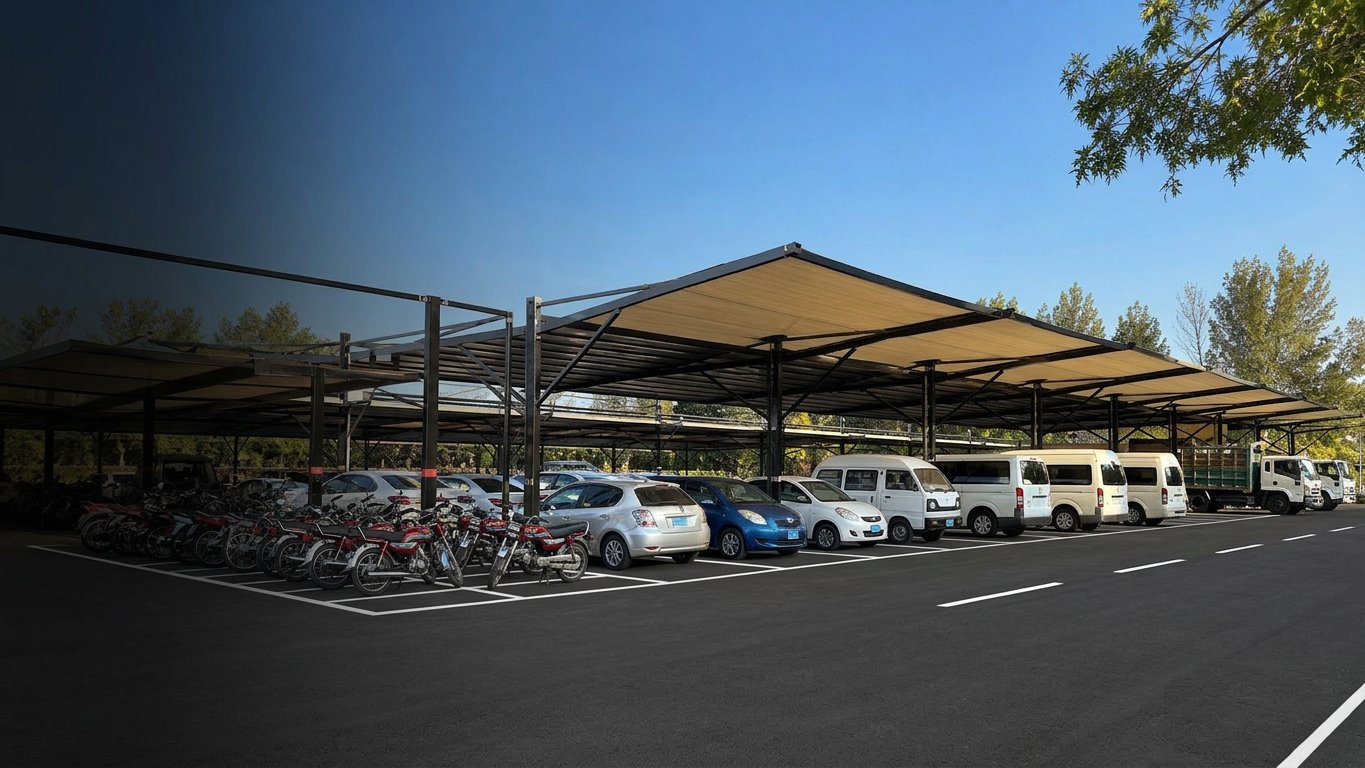
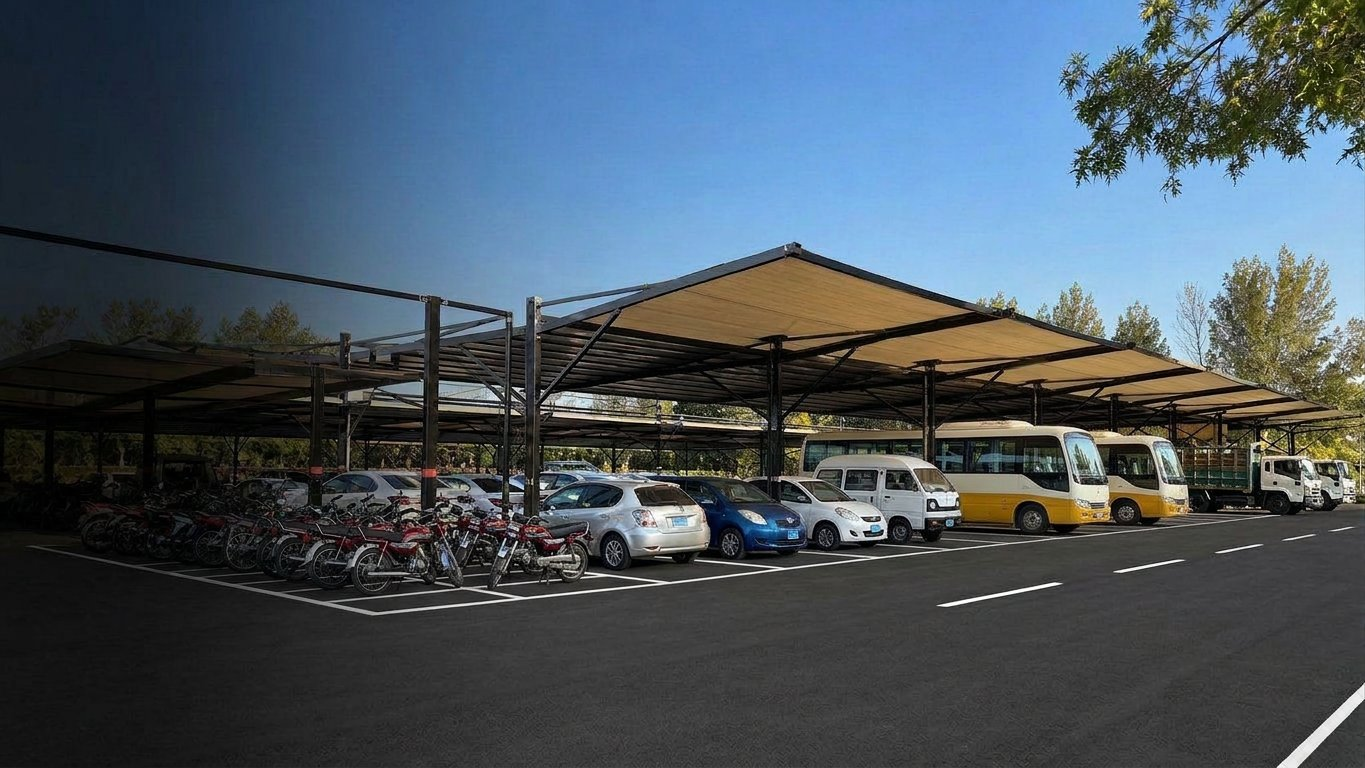
Add buses (5); capacities 40 bikes / 30 cars / 15 vans / 10 trucks / 5 buses; professional colour contrast; hero with buses

diff --git a/web/gate.html b/web/gate.html
@@ -1,15 +1,15 @@
 <!doctype html>
 <html lang="en" data-theme="light">
-<head><meta charset="utf-8"><meta name="viewport" content="width=device-width, initial-scale=1, viewport-fit=cover"><meta name="theme-color" content="#171717"><title>Gate — Salim Habib Parking</title><link rel="icon" href="img/favicon.png" type="image/png"><link rel="stylesheet" href="style.css"></head>
+<head><meta charset="utf-8"><meta name="viewport" content="width=device-width, initial-scale=1, viewport-fit=cover"><meta name="theme-color" content="#171717"><title>Gate — Salim Habib Parking</title><link rel="icon" href="img/favicon.png" type="image/png"><link rel="stylesheet" href="style.css?v=3"></head>
 <body class="staff-page">
   <header class="topbar"><div class="shell nav-shell"><a class="brand" href="/"><img class="brand-logo" src="img/sh-logo.png" alt="Salim Habib Parking logo" width="48" height="48"><span><b>Salim Habib <span class="brand-accent">Parking</span></b><small>GATE</small></span></a><nav class="nav"><a href="/">Home</a><a href="/admin">Admin</a></nav><div class="nav-actions"><span id="clock" class="nav-clock"></span><button id="themeToggle" class="theme-toggle" type="button" aria-label="Switch light / dark theme">◐</button><button id="logoutBtn" class="btn btn-plain hidden" type="button">Sign out</button></div></div></header>
 
   <section id="gateLogin" class="auth-layout shell"><div class="auth-intro"><h1>Gate<br><em>desk</em></h1></div><div class="auth-card"><div class="panel-icon">G</div><h2>Gate login</h2><form id="gateLoginForm"><label for="gateUser">Username</label><input id="gateUser" required autocomplete="username" maxlength="40" placeholder="Username"><label for="gatePass">Password</label><input id="gatePass" required type="password" autocomplete="current-password" maxlength="80" placeholder="Password"><button class="btn btn-red btn-wide" type="submit">Login</button></form></div></section>
 
   <main id="gateDash" class="shell staff-content hidden"><div class="staff-heading"><div><h1>Gate desk<span class="red-period">.</span></h1></div><span class="operator-label" id="operatorLabel">GATE OPERATOR</span></div>
-    <div class="kpi-row"><div class="mini-kpi"><span>AVAILABLE</span><strong id="gateFree">—</strong></div><div class="mini-kpi"><span>RESERVED</span><strong id="gateReserved">—</strong></div><div class="mini-kpi"><span>ON SITE</span><strong id="gateOccupied">—</strong></div><div class="mini-kpi"><span>TOTAL BAYS</span><strong>90</strong></div></div>
+    <div class="kpi-row"><div class="mini-kpi"><span>AVAILABLE</span><strong id="gateFree">—</strong></div><div class="mini-kpi"><span>RESERVED</span><strong id="gateReserved">—</strong></div><div class="mini-kpi"><span>ON SITE</span><strong id="gateOccupied">—</strong></div><div class="mini-kpi"><span>TOTAL BAYS</span><strong>100</strong></div></div>
     <div class="tabs big-tabs" role="tablist" aria-label="Gate actions"><button class="tab active" type="button" data-gate-tab="walkin" role="tab" aria-selected="true">Walk-in entry</button><button class="tab" type="button" data-gate-tab="arrival" role="tab" aria-selected="false">Online arrival</button><button class="tab" type="button" data-gate-tab="exit" role="tab" aria-selected="false">Exit & payment</button></div>
-    <section id="tab-walkin" class="gate-workspace"><div class="gate-form"><div class="panel"><div class="panel-head"><div class="panel-icon">01</div><div><h2>Walk-in entry</h2></div></div><form id="walkinForm" autocomplete="off"><label for="gType">Vehicle</label><select id="gType" required><option value="CAR">Car</option><option value="MOTORCYCLE">Bike</option><option value="VAN">Van</option><option value="TRUCK">Truck</option></select><div class="form-row"><div><label for="gPlate">License plate</label><input id="gPlate" required maxlength="15" pattern="[A-Za-z0-9\- ]{2,15}" autocapitalize="characters" placeholder="LEA-4521"></div><div><label for="gOwner">Driver name</label><input id="gOwner" maxlength="60" placeholder="Optional"></div></div><button class="btn btn-red btn-wide" type="submit">Issue ticket</button></form></div></div><aside class="gate-aside"><div id="gateZoneCounts" class="zone-summary"></div></aside></section>
+    <section id="tab-walkin" class="gate-workspace"><div class="gate-form"><div class="panel"><div class="panel-head"><div class="panel-icon">01</div><div><h2>Walk-in entry</h2></div></div><form id="walkinForm" autocomplete="off"><label for="gType">Vehicle</label><select id="gType" required><option value="CAR">Car</option><option value="MOTORCYCLE">Bike</option><option value="VAN">Van</option><option value="TRUCK">Truck</option><option value="BUS">Bus</option></select><div class="form-row"><div><label for="gPlate">License plate</label><input id="gPlate" required maxlength="15" pattern="[A-Za-z0-9\- ]{2,15}" autocapitalize="characters" placeholder="LEA-4521"></div><div><label for="gOwner">Driver name</label><input id="gOwner" maxlength="60" placeholder="Optional"></div></div><button class="btn btn-red btn-wide" type="submit">Issue ticket</button></form></div></div><aside class="gate-aside"><div id="gateZoneCounts" class="zone-summary"></div></aside></section>
     <section id="tab-arrival" class="gate-workspace hidden"><div class="gate-form"><div class="panel"><div class="panel-head"><div class="panel-icon">02</div><div><h2>Online arrival</h2></div></div><form id="checkinForm" autocomplete="off"><div class="form-row"><div><label for="cId">Booking code</label><input id="cId" required maxlength="16" autocapitalize="characters" placeholder="Booking code"></div><div><label for="cPlate">License plate</label><input id="cPlate" required maxlength="15" autocapitalize="characters" placeholder="LEA-4521"></div></div><button class="btn btn-red btn-wide" type="submit">Check in</button></form></div></div></section>
     <section id="tab-exit" class="gate-workspace hidden"><div class="gate-form"><div class="panel"><div class="panel-head"><div class="panel-icon">03</div><div><h2>Exit & payment</h2></div></div><form id="gateLookupForm" class="lookup-form"><label for="gSearch">Plate or booking code</label><div class="inline-search"><input id="gSearch" required maxlength="16" autocapitalize="characters" placeholder="LEA-4521"><button type="submit" class="btn btn-dark">Search</button></div></form><div id="gateTicket" class="hidden" aria-live="polite"><div id="gateTicketDetails"></div><div id="gatePending" class="hidden warning-box"></div><form id="cashForm" class="cash-form"><h3>Cash</h3><label for="gReceived">Amount received (PKR)</label><input id="gReceived" type="number" step="0.01" min="0" required placeholder="0.00"><div class="cash-change">Change <b id="gChange">PKR 0</b></div><button type="submit" class="btn btn-red btn-wide">Record cash & exit</button></form><div id="gateDigital" class="digital-box"><h3>Online transfer</h3><div id="gateMethods" class="payment-picker"></div><div id="gateDestination" class="destination-box hidden"></div><form id="gateTransferForm" class="hidden"><div class="form-row"><div><label for="gateRef">Transfer reference</label><input id="gateRef" maxlength="40" required placeholder="Reference"></div><div><label for="gateLastFour">Sender last 4 digits</label><input id="gateLastFour" inputmode="numeric" pattern="[0-9]{4}" maxlength="4" placeholder="1234"></div></div><button class="btn btn-dark btn-wide" type="submit">Send for verification</button></form></div></div></div></div></section>
 
@@ -17,5 +17,5 @@
   </main>
   <footer class="footer"><div class="dev-credit">Developed by <span class="spidy">Spidy</span> 🕷</div></footer>
   <div class="modal" id="receiptModal" hidden role="dialog" aria-modal="true" aria-labelledby="receiptTitle"><div class="modal-box"><div class="modal-header"><div><span class="eyebrow">SALIM HABIB PARKING</span><h3 id="receiptTitle">Parking pass</h3></div><button class="icon-button" id="receiptClose" type="button" aria-label="Close">×</button></div><div id="receiptContent" class="receipt"></div><div class="modal-actions"><button id="receiptPng" class="btn btn-red" type="button">↓ Save image</button><button id="receiptPrint" class="btn btn-dark" type="button">Print</button><button id="receiptJson" class="btn btn-plain" type="button">↓ Ticket file</button><button id="receiptHtml" class="btn btn-plain" type="button">↓ HTML</button><button id="receiptShare" class="btn btn-plain" type="button">Share</button></div></div></div><div class="toast" id="toast" role="status" aria-live="polite"></div>
-  <script src="common.js"></script><script src="gate.js"></script>
+  <script src="common.js?v=3"></script><script src="gate.js?v=3"></script>
 </body></html>

diff --git a/web/index.html b/web/index.html
@@ -7,7 +7,7 @@
   <meta name="description" content="Salim Habib Parking — online parking booking.">
   <title>Salim Habib Parking</title>
   <link rel="icon" href="img/favicon.png" type="image/png">
-  <link rel="stylesheet" href="style.css">
+  <link rel="stylesheet" href="style.css?v=3">
 </head>
 <body>
   <header class="topbar"><div class="shell nav-shell">
@@ -17,7 +17,7 @@
   </div></header>
 
   <main>
-    <section class="hero" id="top"><img class="hero-photo" src="img/hero-parking.jpg" alt="Shaded parking lot with bikes, cars, vans and trucks" id="heroImg"><div class="hero-overlay"></div>
+    <section class="hero" id="top"><img class="hero-photo" src="img/hero-parking.jpg?v=3" alt="Shaded parking lot with bikes, cars, vans, trucks and buses" id="heroImg"><div class="hero-overlay"></div>
       <div class="shell hero-inner"><div class="hero-content">
         <h1>Salim Habib<br><em>Parking</em></h1>
         <div class="hero-actions"><a href="#booking" class="btn btn-red btn-lg">Book your spot</a><a href="#map" class="btn btn-outline-white btn-lg">Live spots</a></div>
@@ -25,13 +25,13 @@
     </section>
 
     <div class="shell main-content">
-      <section class="metrics" aria-label="Live parking availability"><div class="metric"><span>CAPACITY</span><strong id="sTotal">90</strong></div><div class="metric"><span>AVAILABLE</span><strong id="sFree">—</strong></div><div class="metric"><span>RESERVED</span><strong id="sReserved">—</strong></div><div class="metric"><span>ON SITE</span><strong id="sOccupied">—</strong></div></section>
+      <section class="metrics" aria-label="Live parking availability"><div class="metric"><span>CAPACITY</span><strong id="sTotal">100</strong></div><div class="metric"><span>AVAILABLE</span><strong id="sFree">—</strong></div><div class="metric"><span>RESERVED</span><strong id="sReserved">—</strong></div><div class="metric"><span>ON SITE</span><strong id="sOccupied">—</strong></div></section>
 
       <section class="section" id="zones"><div class="section-heading"><div><h2>Parking zones</h2></div></div><div class="zone-cards" id="zoneCards" aria-live="polite"></div></section>
 
       <section class="section booking-section" id="booking"><div class="section-heading"><div><h2>Book a spot</h2></div></div>
         <div class="booking-layout"><div class="panel form-panel"><div class="panel-head"><div class="panel-icon">01</div><div><h3>Reserve a bay</h3></div></div>
-          <form id="bookingForm" autocomplete="off"><label for="bType">Vehicle category</label><select id="bType" required><option value="CAR">Car</option><option value="MOTORCYCLE">Bike</option><option value="VAN">Van</option><option value="TRUCK">Truck</option></select>
+          <form id="bookingForm" autocomplete="off"><label for="bType">Vehicle category</label><select id="bType" required><option value="CAR">Car</option><option value="MOTORCYCLE">Bike</option><option value="VAN">Van</option><option value="TRUCK">Truck</option><option value="BUS">Bus</option></select>
             <div class="form-row"><div><label for="bPlate">License plate <span class="required">*</span></label><input id="bPlate" required maxlength="15" pattern="[A-Za-z0-9\- ]{2,15}" placeholder="e.g. LEA-4521" autocapitalize="characters"></div><div><label for="bOwner">Your name <span class="required">*</span></label><input id="bOwner" required maxlength="60" placeholder="Name"></div></div>
             <button class="btn btn-red btn-wide" type="submit" id="bookBtn">Reserve a spot</button>
           </form></div>
@@ -55,6 +55,6 @@
 
   <div class="modal" id="receiptModal" hidden role="dialog" aria-modal="true" aria-labelledby="receiptTitle"><div class="modal-box"><div class="modal-header"><div><span class="eyebrow">SALIM HABIB PARKING</span><h3 id="receiptTitle">Your parking pass</h3></div><button class="icon-button" id="receiptClose" type="button" aria-label="Close receipt">×</button></div><div id="receiptContent" class="receipt"></div><div class="modal-actions"><button id="receiptPng" type="button" class="btn btn-red">↓ Save image</button><button id="receiptPrint" type="button" class="btn btn-dark">Print</button><button id="receiptJson" type="button" class="btn btn-plain">↓ Ticket file</button><button id="receiptHtml" type="button" class="btn btn-plain">↓ HTML</button><button id="receiptShare" type="button" class="btn btn-plain">Share</button></div></div></div>
   <div class="toast" id="toast" role="status" aria-live="polite"></div>
-  <script src="common.js"></script><script src="app.js"></script>
+  <script src="common.js?v=3"></script><script src="app.js?v=3"></script>
 </body>
 </html>

diff --git a/web/style.css b/web/style.css
@@ -51,3 +51,48 @@
 .map-sections .map-zone .spot-grid{background:#2e3135;padding:8px;border-radius:8px}
 @media (max-width:560px){.spot-grid{grid-template-columns:repeat(auto-fill,minmax(38px,1fr));gap:4px}}
 .legend-dot.free{background:#3a3d42;box-shadow:inset 0 0 0 2px #f3f3f3,0 0 0 1px #999}
+
+/* ===== Professional palette & contrast (v3) ===== */
+:root{--bg:#f3f4f6;--surface:#ffffff;--surface-2:#eef0f3;--ink:#0f1115;--muted:#4a5260;--line:#d9dde3;--red:#c8102e;--red-deep:#9e0b23;--red-wash:#fbe9ec;--black:#0f1115;--shadow:0 1px 2px rgba(15,17,21,.06),0 10px 28px rgba(15,17,21,.07)}
+[data-theme="dark"]{--bg:#0c0e12;--surface:#151920;--surface-2:#1e232c;--ink:#f2f4f7;--muted:#c3c9d2;--line:#2c323c;--red:#ef3b57;--red-deep:#c8102e;--red-wash:#3a1a22;--black:#0c0e12;--shadow:0 1px 2px rgba(0,0,0,.4),0 12px 30px rgba(0,0,0,.35)}
+body{color:var(--ink);background:var(--bg)}
+.topbar{box-shadow:0 1px 0 var(--line)}
+.nav a{color:#374151}.nav a:hover{color:var(--red)}
+[data-theme="dark"] .nav a{color:#d1d5db}
+.btn-red{background:var(--red-deep);background:#c8102e;box-shadow:0 6px 16px rgba(200,16,46,.22)}
+.btn-red:hover:not(:disabled){background:#9e0b23}
+.btn-dark{background:#0f1115}.btn-dark:hover:not(:disabled){background:#262b33}
+[data-theme="dark"] .btn-dark{background:#f2f4f7;color:#0f1115}[data-theme="dark"] .btn-dark:hover:not(:disabled){background:#d7dbe1}
+.hero-overlay{background:linear-gradient(90deg,rgba(8,10,14,.88) 0%,rgba(8,10,14,.72) 32%,rgba(8,10,14,.28) 60%,rgba(8,10,14,0) 100%),linear-gradient(0deg,rgba(0,0,0,.35),transparent 40%)}
+.hero h1 em{color:#ff3d5a}
+.metric span,.mini-kpi span{color:#9e0b23;letter-spacing:.14em}
+[data-theme="dark"] .metric span,[data-theme="dark"] .mini-kpi span{color:#ff8295}
+.metric strong{color:var(--ink)}
+.section-heading h2{color:var(--ink)}
+.panel,.zone-card,.map-zone,.metrics{border-color:var(--line);box-shadow:var(--shadow)}
+input,select,textarea{border-color:#c9ced6;background:var(--surface)}
+[data-theme="dark"] input,[data-theme="dark"] select,[data-theme="dark"] textarea{border-color:#3a414c;background:#10141a}
+input::placeholder,textarea::placeholder{color:#7a828f}
+label{color:var(--ink)}
+.zone-cards{grid-template-columns:repeat(5,1fr);gap:14px}
+.zone-card{min-height:220px;padding:20px}
+.zone-card:first-child{background:#0f1115;border-color:#0f1115}
+.zone-card h3{color:inherit}
+.zone-number span,.zone-foot span{color:var(--muted)}
+.zone-card:first-child .zone-number span,.zone-card:first-child .zone-foot span{color:#c3c9d2}
+.process-panel,.verify-strip,.footer{background:#0f1115}
+.rates-panel{background:linear-gradient(160deg,#b10e29,#7e0a1d)}
+.legend{color:#374151}[data-theme="dark"] .legend{color:#d1d5db}
+.map-sections .map-zone:first-child{grid-column:1/-1}
+.map-zone header small{color:#374151}[data-theme="dark"] .map-zone header small{color:#c3c9d2}
+.map-sections .map-zone .spot-grid{background:#262a31}
+.spot-grid .spot.free,.spot-grid .spot.reserved,.spot-grid .spot.occupied,.spot-grid .spot{background:#343942}
+.spot .bay-id{color:#f2f4f7;opacity:.9}
+.status-badge{font-weight:800}
+.data-table th{color:#374151}[data-theme="dark"] .data-table th{color:#c3c9d2}
+.footer-inner>small,.dev-credit{color:#d1d5db}
+.dev-credit .spidy{color:#ff2a3d}
+@media (max-width:1100px){.zone-cards{grid-template-columns:repeat(3,1fr)}}
+@media (max-width:720px){.zone-cards{grid-template-columns:repeat(2,1fr)}}
+@media (max-width:460px){.zone-cards{grid-template-columns:1fr}}
+.zone-foot{gap:8px;flex-wrap:nowrap}.zone-foot span{white-space:nowrap;font-size:.72rem}.zone-foot a{white-space:nowrap}

diff --git a/web/admin.html b/web/admin.html
@@ -1,6 +1,6 @@
 <!doctype html>
 <html lang="en" data-theme="light">
-<head><meta charset="utf-8"><meta name="viewport" content="width=device-width, initial-scale=1, viewport-fit=cover"><meta name="theme-color" content="#171717"><title>Admin — Salim Habib Parking</title><link rel="icon" href="img/favicon.png" type="image/png"><link rel="stylesheet" href="style.css"></head>
+<head><meta charset="utf-8"><meta name="viewport" content="width=device-width, initial-scale=1, viewport-fit=cover"><meta name="theme-color" content="#171717"><title>Admin — Salim Habib Parking</title><link rel="icon" href="img/favicon.png" type="image/png"><link rel="stylesheet" href="style.css?v=3"></head>
 <body class="staff-page admin-page">
     <header class="topbar"><div class="shell nav-shell"><a class="brand" href="/"><img class="brand-logo" src="img/sh-logo.png" alt="Salim Habib Parking logo" width="48" height="48"><span><b>Salim Habib <span class="brand-accent">Parking</span></b><small>ADMIN</small></span></a><nav class="nav"><a href="/">Home</a><a href="/gate">Gate</a></nav><div class="nav-actions"><span id="clock" class="nav-clock"></span><button id="themeToggle" class="theme-toggle" type="button" aria-label="Switch light / dark theme">◐</button><button id="logoutBtn" class="btn btn-plain hidden" type="button">Sign out</button></div></div></header>
 
@@ -27,5 +27,5 @@
   <div class="modal" id="detailsModal" hidden role="dialog" aria-modal="true" aria-labelledby="detailsTitle"><div class="modal-box"><div class="modal-header"><div><h3 id="detailsTitle">Ticket details</h3></div><button class="icon-button" id="detailsClose" type="button" aria-label="Close details">×</button></div><div id="detailsContent" class="receipt"></div></div></div>
 
   <div class="modal" id="receiptModal" hidden role="dialog" aria-modal="true" aria-labelledby="receiptTitle"><div class="modal-box"><div class="modal-header"><div><span class="eyebrow">SALIM HABIB PARKING</span><h3 id="receiptTitle">Receipt</h3></div><button class="icon-button" id="receiptClose" type="button" aria-label="Close">×</button></div><div id="receiptContent" class="receipt"></div><div class="modal-actions"><button id="receiptPng" class="btn btn-red" type="button">↓ Save image</button><button id="receiptPrint" class="btn btn-dark" type="button">Print</button><button id="receiptJson" class="btn btn-plain" type="button">↓ Ticket file</button><button id="receiptHtml" class="btn btn-plain" type="button">↓ HTML</button><button id="receiptShare" class="btn btn-plain" type="button">Share</button></div></div></div><div class="toast" id="toast" role="status" aria-live="polite"></div>
-  <script src="common.js"></script><script src="admin.js"></script>
+  <script src="common.js?v=3"></script><script src="admin.js?v=3"></script>
 </body></html>

diff --git a/web/common.js b/web/common.js
@@ -6,7 +6,7 @@ window.Orbit = (() => {
   const money = value => 'PKR ' + Number(value || 0).toLocaleString('en-PK', { maximumFractionDigits: 2 });
   const fmt = iso => iso && !Number.isNaN(Date.parse(iso)) ? new Date(iso).toLocaleString('en-PK', { dateStyle: 'medium', timeStyle: 'short' }) : '—';
   const duration = iso => { if (!iso) return '—'; const mins = Math.max(0, Math.floor((Date.now() - Date.parse(iso)) / 60000)); return mins < 60 ? mins + 'm' : `${Math.floor(mins / 60)}h ${mins % 60}m`; };
-  const labels = { CAR: 'Cars', MOTORCYCLE: 'Bikes', VAN: 'Vans', TRUCK: 'Trucks' };
+  const labels = { CAR: 'Cars', MOTORCYCLE: 'Bikes', VAN: 'Vans', TRUCK: 'Trucks', BUS: 'Buses' };
   const zoneIcon = (type, cls = '') => { const image = el('img', cls); image.src = `img/${type === 'MOTORCYCLE' ? 'bike' : type.toLowerCase()}.svg`; image.alt = ''; return image; };
   const methodNames = { EASYPAISA: 'easypaisa', JAZZCASH: 'JazzCash', BANK: 'Bank transfer', CASH: 'Cash' };
   const methodLogo = m => m.id === 'EASYPAISA' ? 'img/easypaisa.png' : m.id === 'JAZZCASH' ? 'img/jazzcash.png' : m.bankName === 'MEEZAN' ? 'img/meezan.webp' : 'img/hbl.png';
@@ -53,7 +53,7 @@ window.Orbit = (() => {
     if (t.note && t.paymentStatus !== 'PAID') box.append(el('div', 'notice-box', t.note));
     return box;
   };
-  const topView = { CAR: 'car', MOTORCYCLE: 'bike', VAN: 'van', TRUCK: 'truck' };
+  const topView = { CAR: 'car', MOTORCYCLE: 'bike', VAN: 'van', TRUCK: 'truck', BUS: 'bus' };
   const renderZoneMap = (mount, zones, onSpotClick) => {
     mount.replaceChildren();
     zones.forEach(zone => {

diff --git a/web/app.js b/web/app.js
@@ -2,7 +2,7 @@
 (() => {
   'use strict';
   const { $, el, money, fmt, zoneIcon, labels, request, toast, handleError, detailCard, renderZoneMap, picker, destination, showReceipt } = Orbit;
-  const zoneOrder = ['CAR', 'MOTORCYCLE', 'VAN', 'TRUCK'];
+  const zoneOrder = ['MOTORCYCLE', 'CAR', 'VAN', 'TRUCK', 'BUS'];
   let methods = [], current = null, selected = null;
   const busy = (button, on) => { button.disabled = on; button.dataset.busy = on ? '1' : '0'; };
 
@@ -19,8 +19,8 @@
       card.append(top, el('h3', '', labels[type]));
       const count = el('div', 'zone-number'); count.append(el('strong', '', values.free), el('span', '', `of ${values.total} available`)); card.append(count);
       const track = el('div', 'zone-progress'); const bar = el('i'); bar.style.width = `${Math.max(0, Math.min(100, values.free / values.total * 100))}%`; track.append(bar); card.append(track);
-      const foot = el('div', 'zone-foot'); foot.append(el('span', '', `${values.reserved} held · ${values.occupied} in use`));
-      const link = el('a', '', 'Book this zone ↗'); link.href = '#booking'; link.addEventListener('click', () => { $('bType').value = type; });
+      const foot = el('div', 'zone-foot'); foot.append(el('span', '', `${values.reserved} held · ${values.occupied} parked`));
+      const link = el('a', '', 'Book →'); link.href = '#booking'; link.addEventListener('click', () => { $('bType').value = type; });
       foot.append(link); card.append(foot); $('zoneCards').append(card);
     });
   };

diff --git a/web/gate.js b/web/gate.js
@@ -21,7 +21,7 @@
   const stats = async () => {
     const data = await request('/api/stats'); $('gateFree').textContent = data.freeSpots; $('gateReserved').textContent = data.reservedSpots; $('gateOccupied').textContent = data.occupiedSpots;
     const mount = $('gateZoneCounts'); mount.replaceChildren();
-    ['CAR', 'MOTORCYCLE', 'VAN', 'TRUCK'].forEach(type => { const row = el('div'); row.append(el('span', '', labels[type]), el('strong', '', data.zones[type].free + ' / ' + data.zones[type].total + ' free')); mount.append(row); });
+    ['MOTORCYCLE', 'CAR', 'VAN', 'TRUCK', 'BUS'].forEach(type => { const row = el('div'); row.append(el('span', '', labels[type]), el('strong', '', data.zones[type].free + ' / ' + data.zones[type].total + ' free')); mount.append(row); });
   };
   const loadQueue = async () => {
     const list = await G('/api/guard/active'), body = $('gateActiveTable').querySelector('tbody'); body.replaceChildren();

diff --git a/test/test/ParkingFlowTest.java b/test/test/ParkingFlowTest.java
@@ -26,10 +26,11 @@ public class ParkingFlowTest {
         RateTable rates = new RateTable(settings);
         ParkingLotService lot = new ParkingLotService("Orbit Park", repo, settings, rates, new HourlyPricing(rates), crypto, config);
         Map<String, Object> stats = lot.getStats();
-        check((int) stats.get("totalSpots") == 90 && (int) stats.get("freeSpots") == 90, "exactly 90 bays");
+        check((int) stats.get("totalSpots") == 100 && (int) stats.get("freeSpots") == 100, "exactly 100 bays");
         Map<?, ?> zones = (Map<?, ?>) stats.get("zones");
-        check(((Map<?, ?>) zones.get("MOTORCYCLE")).get("total").equals(20) && ((Map<?, ?>) zones.get("CAR")).get("total").equals(40)
-                && ((Map<?, ?>) zones.get("VAN")).get("total").equals(20) && ((Map<?, ?>) zones.get("TRUCK")).get("total").equals(10), "four isolated zones");
+        check(((Map<?, ?>) zones.get("MOTORCYCLE")).get("total").equals(40) && ((Map<?, ?>) zones.get("CAR")).get("total").equals(30)
+                && ((Map<?, ?>) zones.get("VAN")).get("total").equals(15) && ((Map<?, ?>) zones.get("TRUCK")).get("total").equals(10)
+                && ((Map<?, ?>) zones.get("BUS")).get("total").equals(5), "five isolated zones");
 
         final ParkingLotService initial = lot;
         Ticket bike = lot.reserve(VehicleType.MOTORCYCLE, "BIKE-1", "Customer");
@@ -37,11 +38,12 @@ public class ParkingFlowTest {
         Ticket car = lot.reserve(VehicleType.CAR, "CAR-1", "Customer");
         Ticket van = lot.parkVehicle(VehicleType.VAN, "VAN-1", "Walk-in");
         Ticket truck = lot.parkVehicle(VehicleType.TRUCK, "TRK-1", "Walk-in");
+        Ticket bus = lot.parkVehicle(VehicleType.BUS, "BUS-1", "Walk-in");
         check(bike.getSpotId().startsWith("B-") && car.getSpotId().startsWith("C-")
-                && van.getSpotId().startsWith("V-") && truck.getSpotId().startsWith("T-"), "no cross-zone allocation");
+                && van.getSpotId().startsWith("V-") && truck.getSpotId().startsWith("T-") && bus.getSpotId().startsWith("BS-"), "no cross-zone allocation");
         rejected(() -> initial.parkVehicle(VehicleType.CAR, "CAR-1", "Duplicate"), "cannot double book a plate");
         rejected(() -> initial.setSpotBlocked(bike.getSpotId(), true), "cannot block a held bay");
-        check((int) lot.getStats().get("freeSpots") == 86, "holds and arrivals both reduce availability");
+        check((int) lot.getStats().get("freeSpots") == 95, "holds and arrivals both reduce availability");
         Ticket entered = lot.checkIn(bike.getId(), "BIKE-1");
         check(entered.getStatus() == Ticket.Status.PARKED && entered.getEntryTime() != null, "reservation check-in starts meter");
         check(lot.validSignature(entered, "RESERVATION", reservationSignature), "reservation signature still works after check-in");
@@ -96,7 +98,7 @@ public class ParkingFlowTest {
         check(pausedLot.validSignature(pausedPaid, "PAYMENT", pausedLot.sign(pausedPaid, "PAYMENT")), "billing cutoff is signed on digital receipt");
 
         Ticket cancelled = pausedLot.cancelReservation(car.getId(), "CAR-1", "Customer cancelled");
-        check(cancelled.getStatus() == Ticket.Status.CANCELLED && pausedLot.getStats().get("freeSpots").equals(88), "cancel returns bay to capacity");
+        check(cancelled.getStatus() == Ticket.Status.CANCELLED && pausedLot.getStats().get("freeSpots").equals(97), "cancel returns bay to capacity");
         pausedLot.setSpotBlocked("C-01", true);
         check(pausedLot.getStats().get("blockedSpots").equals(1), "maintenance block updated");
         ParkingLotService loaded = new ParkingLotService("Orbit Park", new FileTicketRepository(dir.resolve("tickets.db")),
@@ -143,7 +145,7 @@ public class ParkingFlowTest {
         RateTable fullRates = new RateTable(fullSettings);
         ParkingLotService fullLot = new ParkingLotService("Orbit Park", new FileTicketRepository(fullDir.resolve("tickets.db")),
                 fullSettings, fullRates, new HourlyPricing(fullRates), new Crypto(fullDir.resolve("secret.key")), new PaymentConfig(fullSettings));
-        for (int i = 1; i <= 19; i++) fullLot.reserve(VehicleType.MOTORCYCLE, "FILL-B-" + i, "Rider");
+        for (int i = 1; i <= 39; i++) fullLot.reserve(VehicleType.MOTORCYCLE, "FILL-B-" + i, "Rider");
         ExecutorService pool = Executors.newFixedThreadPool(2);
         CountDownLatch start = new CountDownLatch(1);
         List<Future<Boolean>> futures = new ArrayList<>();
@@ -161,8 +163,8 @@ public class ParkingFlowTest {
         pool.shutdownNow();
         Map<?, ?> fullZones = (Map<?, ?>) fullLot.getStats().get("zones");
         check(admitted == 1 && ((Map<?, ?>) fullZones.get("MOTORCYCLE")).get("free").equals(0),
-                "concurrent riders cannot double-allocate the 20th bike bay");
-        check(fullLot.getStats().get("freeSpots").equals(70), "full bike zone leaves other 70 vehicle-specific bays free");
+                "concurrent riders cannot double-allocate the 40th bike bay");
+        check(fullLot.getStats().get("freeSpots").equals(60), "full bike zone leaves other 60 vehicle-specific bays free");
         rejected(() -> fullLot.reserve(VehicleType.MOTORCYCLE, "OVERFLOW-B", "Rider"), "full bike zone never overflows into car/van/truck bays");
         System.out.println("ALL ORBIT PARK FLOW TESTS PASSED");
     }

diff --git a/test/api_flow.py b/test/api_flow.py
@@ -65,7 +65,7 @@ def main():
                     if status == 200: break
                 except (OSError, TimeoutError): time.sleep(.1)
             else: raise AssertionError('Server did not start')
-            check(data['totalSpots'] == 90 and data['freeSpots'] == 89, '90 bays incl. restored legacy active vehicle')
+            check(data['totalSpots'] == 100 and data['freeSpots'] == 99, '100 bays incl. restored legacy active vehicle')
             check(call('/api/park', {'plate': 'X-1'})[0] == 404 and call('/api/exit', {'plate': 'PAID-1', 'method': 'CASH'})[0] == 404,
                   'legacy public self-entry/self-exit endpoints are unavailable')
             check(call('/api/guard/park', {'type': 'CAR', 'plate': 'X-1'})[0] == 401, 'walk-in entry requires guard session')

diff --git a/src/com/parking/service/ParkingLotService.java b/src/com/parking/service/ParkingLotService.java
@@ -11,7 +11,7 @@ import java.util.stream.Collectors;
 /** Single-level Salim Habib Parking. All capacity-changing operations share this lock. */
 public class ParkingLotService {
     private static final Map<VehicleType, Integer> CAPACITY = Map.of(
-            VehicleType.MOTORCYCLE, 20, VehicleType.CAR, 40, VehicleType.VAN, 20, VehicleType.TRUCK, 10);
+            VehicleType.MOTORCYCLE, 40, VehicleType.CAR, 30, VehicleType.VAN, 15, VehicleType.TRUCK, 10, VehicleType.BUS, 5);
     private final String name;
     private final Map<String, ParkingSpot> spots = new LinkedHashMap<>();
     private final Map<String, Ticket> activeByPlate = new HashMap<>();

diff --git a/src/com/parking/Main.java b/src/com/parking/Main.java
@@ -7,7 +7,7 @@ import com.parking.util.Crypto;
 import java.nio.charset.StandardCharsets;
 import java.nio.file.*;
 
-/** Salim Habib Parking: 90 dedicated outdoor bays. Uses PostgreSQL when configured, local files otherwise. */
+/** Salim Habib Parking: 100 dedicated outdoor bays (40 bikes, 30 cars, 15 vans, 10 trucks, 5 buses). Uses PostgreSQL when configured, local files otherwise. */
 public class Main {
     public static final String APP_NAME = "Salim Habib Parking";
     private static final String DEFAULT_ADMIN_PASS = "admin1122";

diff --git a/src/com/parking/model/Vehicle.java b/src/com/parking/model/Vehicle.java
@@ -44,6 +44,7 @@ public abstract class Vehicle {
             case CAR:        return new Car(plate, owner);
             case VAN:        return new Van(plate, owner);
             case TRUCK:      return new Truck(plate, owner);
+            case BUS:        return new Bus(plate, owner);
             default: throw new IllegalArgumentException("Unsupported vehicle type");
         }
     }
